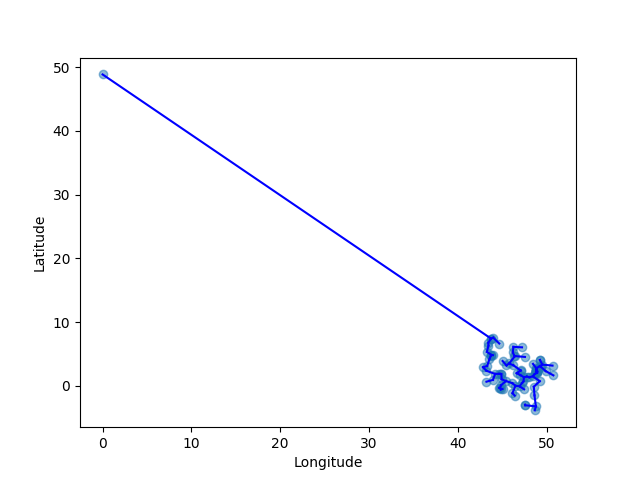
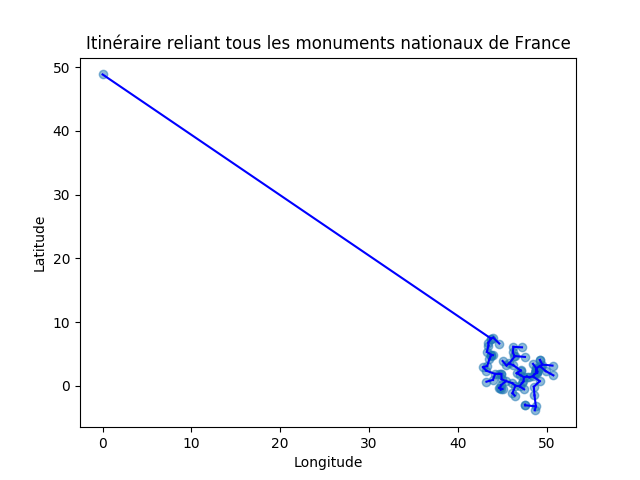
script

Changed region(s): [[0.125, 0.0625, 0.9062, 0.125]]

diff --git a/monumentReader.c b/monumentReader.c
@@ -325,74 +325,18 @@ void primMST(Graph* graph, graphe* g){
 }
 
 void hbMST(Graph* graph, graphe* g){
-  int V = graph->V;
-	int E = graph->E;
-	int parent[V];
-	float key[V];
-	bool mstSet[V];
-	float dis = 0;
 
-	int cheapest[V];
-
-	for (int i = 0; i < V; i++)
-		key[i] = INT_MAX, mstSet[i] = false;
-
-	key[0] = 0;
-	parent[0] = -1;
-
-	for(int count = 0; count < V - 1; count++){
-		int u = minKey(key, mstSet, V);
-		mstSet[u] = true;
-		for(int v = 0; v<E; v++){
-			if(graph->edge[v].src == u){
-				int w = graph->edge[v].dest;
-				if(mstSet[w] == false && graph->edge[v].weight < key[w]){
-					key[w] = graph->edge[v].weight;
-					parent[w] = u;
-				}
-			}
-			else if(graph->edge[v].dest == u){
-				int w = graph->edge[v].src;
-				if(mstSet[w] == false && graph->edge[v].weight < key[w]){
-					key[w] = graph->edge[v].weight;
-					parent[w] = u;
-				}
-			}
-		}
-	}
-
-	for (int i = 1; i < graph->V; i++){
-    dis = dis + key[i];
-    g->tab_sommet[g->nb_sommet] = parent[i];
-    g->nb_sommet++;
-    g->tab_sommet[g->nb_sommet] = i;
-    g->nb_sommet++;
-	}
-  printf("Weight of MST is %f\n", dis);
-	return;
-}
-
-
-
-
-
-
-
-
-
-
-
-
-
-/*
-void hbMST(Graph* graph, graphe* g){
   int V = graph->V, E = graph->E;
-	Edge *edge = graph->edge;
+  Edge *edge = graph->edge;
 
-	subset subsets[V];
-	int cheapest[V];
-
+  int cheapest[V];
   qsort(graph->edge, graph->E, sizeof(graph->edge[0]), myComp);
+	subset* subsets	= (subset*)malloc(V * sizeof(subset));
+
+	for (int v = 0; v < V; ++v) {
+		subsets[v].parent = v;
+		subsets[v].rank = 0;
+	}
 
 	for (int v = 0; v < V; ++v)
 	{
@@ -440,6 +384,6 @@ void hbMST(Graph* graph, graphe* g){
 		}
 	}
 	printf("Weight of MST is %f\n", MSTweight);
-	return;
+
+  return;
 }
-*/

diff --git a/mainMonument.c b/mainMonument.c
@@ -60,7 +60,7 @@ int main()
       cpt++;
     }
   }
-  /*
+
   printf("\t Kruskal Algo\n");
   clock_gettime(clk_id1, &before1);
 	KruskalMST(graph, g);
@@ -81,21 +81,14 @@ int main()
   clock_gettime(clk_id3, &after3);
   analyzer_append(time_analysis3, after3.tv_nsec-before3.tv_nsec);
   fprintf(stderr,"Total cost: %Lf ns\n\n", get_total_cost(time_analysis3));
-  */
+
   printf("\t Mon Algo\n");
   clock_gettime(clk_id4, &before4);
   hbMST(graph, g4);
   clock_gettime(clk_id4, &after4);
   analyzer_append(time_analysis4, after4.tv_nsec-before4.tv_nsec);
   fprintf(stderr,"Total cost: %Lf ns\n\n", get_total_cost(time_analysis4));
-  /*
-  printf("\t Mon3 Algo\n");
-  clock_gettime(clk_id6, &before6);
-  hb3MST(graph, g6);
-  clock_gettime(clk_id6, &after6);
-  analyzer_append(time_analysis6, after6.tv_nsec-before6.tv_nsec);
-  fprintf(stderr,"Total cost: %Lf ns\n\n", get_total_cost(time_analysis6));
-  */
+
   saveGraph(g4);
   saveListOfMonuments(monuments);
   analyzer_destroy(time_analysis1);

diff --git a/visualisation.py b/visualisation.py
@@ -17,13 +17,14 @@ for x in range(graph.shape[0]):
 
 pyplot.xlabel('Longitude')
 pyplot.ylabel('Latitude')
+pyplot.title("Itinéraire reliant tous les monuments nationaux de France")
 
 # save in a PNG file
 pyplot.savefig('result.png')
 
 # show the result
 pyplot.show()
-"""
+
 
 import csv
 import numpy as np
@@ -53,4 +54,3 @@ for x in range(graph.shape[0]):
     folium.PolyLine(c, color="blue", weight=2.5, opacity=0.8).add_to(fmap)
 
 fmap.save('via.html')
-"""

diff --git a/monumentReader.h b/monumentReader.h
@@ -58,9 +58,4 @@ void primMST(Graph* graph, graphe* g);
 
 void hbMST(Graph* graph, graphe* g);
 
-/*
-void hbMST(Graph* graph, graphe* g);
-void hb2MST(Graph* graph, graphe* g);
-void hb3MST(Graph* graph, graphe* g);
-*/
 #endif
